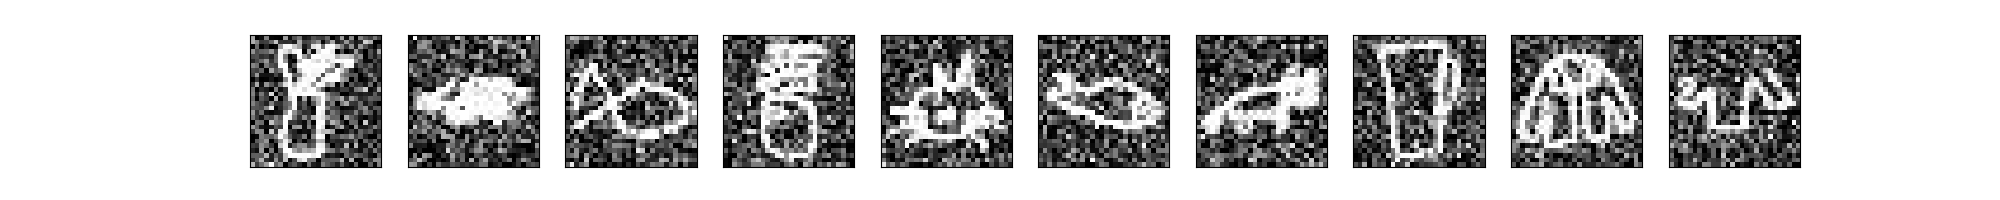
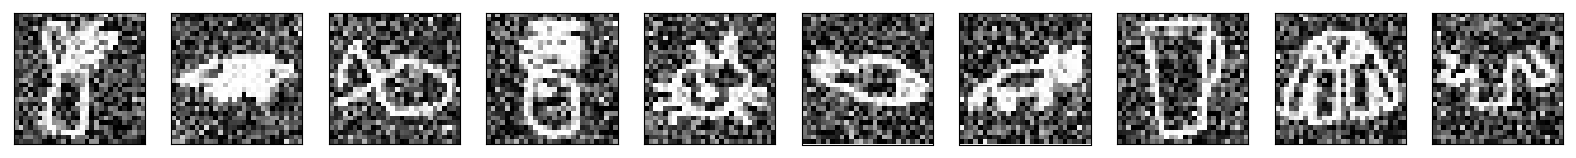
update

diff --git a/QuickDraw_noisy_classifier.py b/QuickDraw_noisy_classifier.py
@@ -2,12 +2,12 @@
 
  QuickDraw_noisy_classifier.py (author: Anson Wong / git: ankonzoid)
  
- Given a set of Gaussian-noisy sketch greyscale images that are of size 28x28 taken
+ Given a set of Gaussian-noisy sketch greyscale images of size 28x28 pixels taken
  from Google's QuickDraw data set:
 
  https://console.cloud.google.com/storage/browser/quickdraw_dataset/full/numpy_bitmap
 
- We create a model that tries to denoise the image, then classifies the object in the image.
+ We create a model that denoise the image, then classifies the image object.
 
  The main steps:
   1) Create/collect query images for classification, and clean images for training
@@ -20,7 +20,7 @@ import numpy as np
 import matplotlib.pyplot as plt
 
 import keras
-from keras.layers import Input, Dense, Conv2D, MaxPooling2D, UpSampling2D  # CAE
+from keras.layers import Input, UpSampling2D  # CAE
 from keras.models import Model  # CAE
 from keras.callbacks import TensorBoard  # CAE
 from keras.models import Sequential  # CNN
@@ -60,7 +60,7 @@ def main():
     # =======================================================
     #
     # Create query images
-    # Noisy up some clean Google SketchRNN images and embed them into a noisy large background.
+    # Noise up some clean Google QuickDraw images
     #
     # =======================================================
     check_noisydata = False  # check noisy data before run?
@@ -365,7 +365,7 @@ def plot_labeled_images_random(image_list, label_list, categories, n, title_str,
         ax.set_title(categories[label_list[ind]], fontsize=20)
         ax.get_xaxis().set_visible(False); ax.get_yaxis().set_visible(False)
     if 1:
-        pylab.savefig(filename)
+        pylab.savefig(filename, bbox_inches='tight')
     else:
         plt.show()
 
@@ -381,7 +381,7 @@ def plot_unlabeled_images_random(image_list, n, title_str, ypixels, xpixels, see
         plt.gray()
         ax.get_xaxis().set_visible(False); ax.get_yaxis().set_visible(False)
     if 1:
-        pylab.savefig(filename)
+        pylab.savefig(filename, bbox_inches='tight')
     else:
         plt.show()
 
@@ -405,7 +405,7 @@ def plot_compare(x_test, decoded_imgs, filename):
         ax.get_yaxis().set_visible(False)
 
     if 1:
-        pylab.savefig(filename)
+        pylab.savefig(filename, bbox_inches='tight')
     else:
         plt.show()
 
